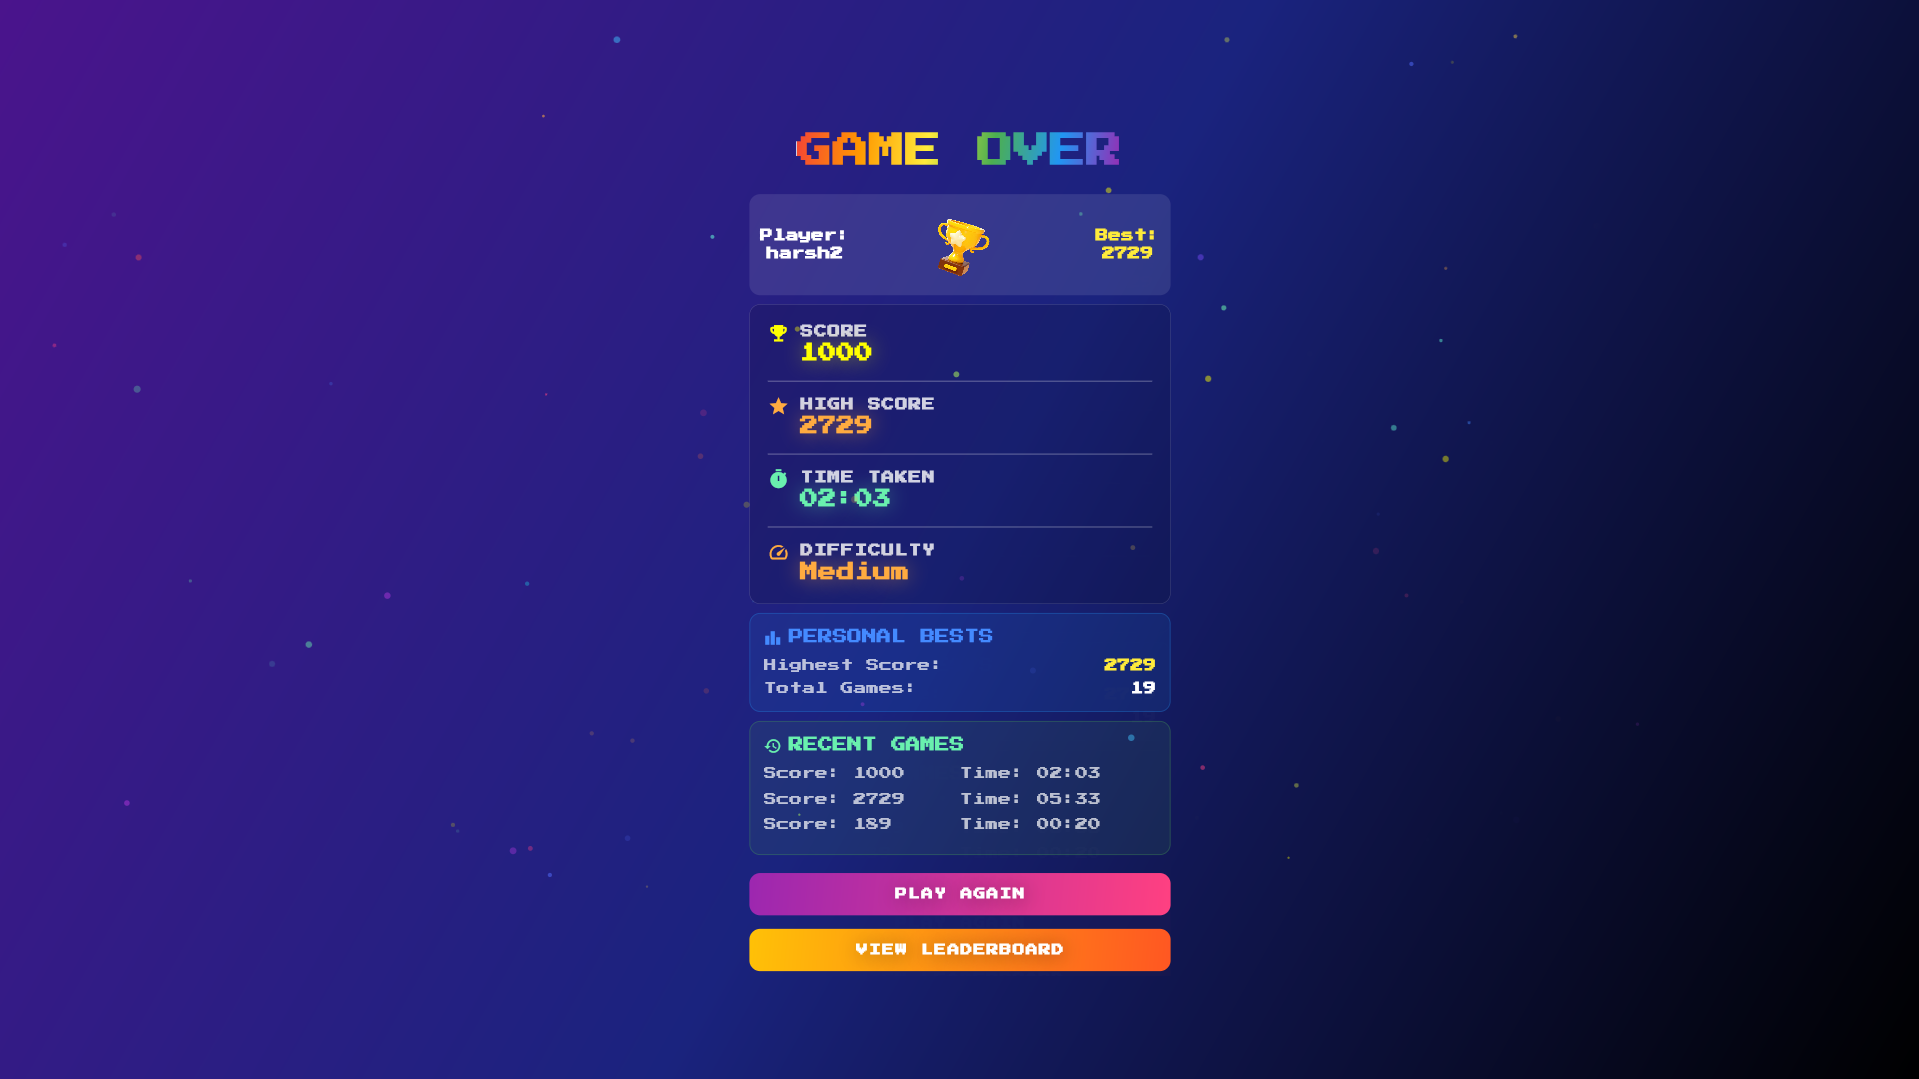
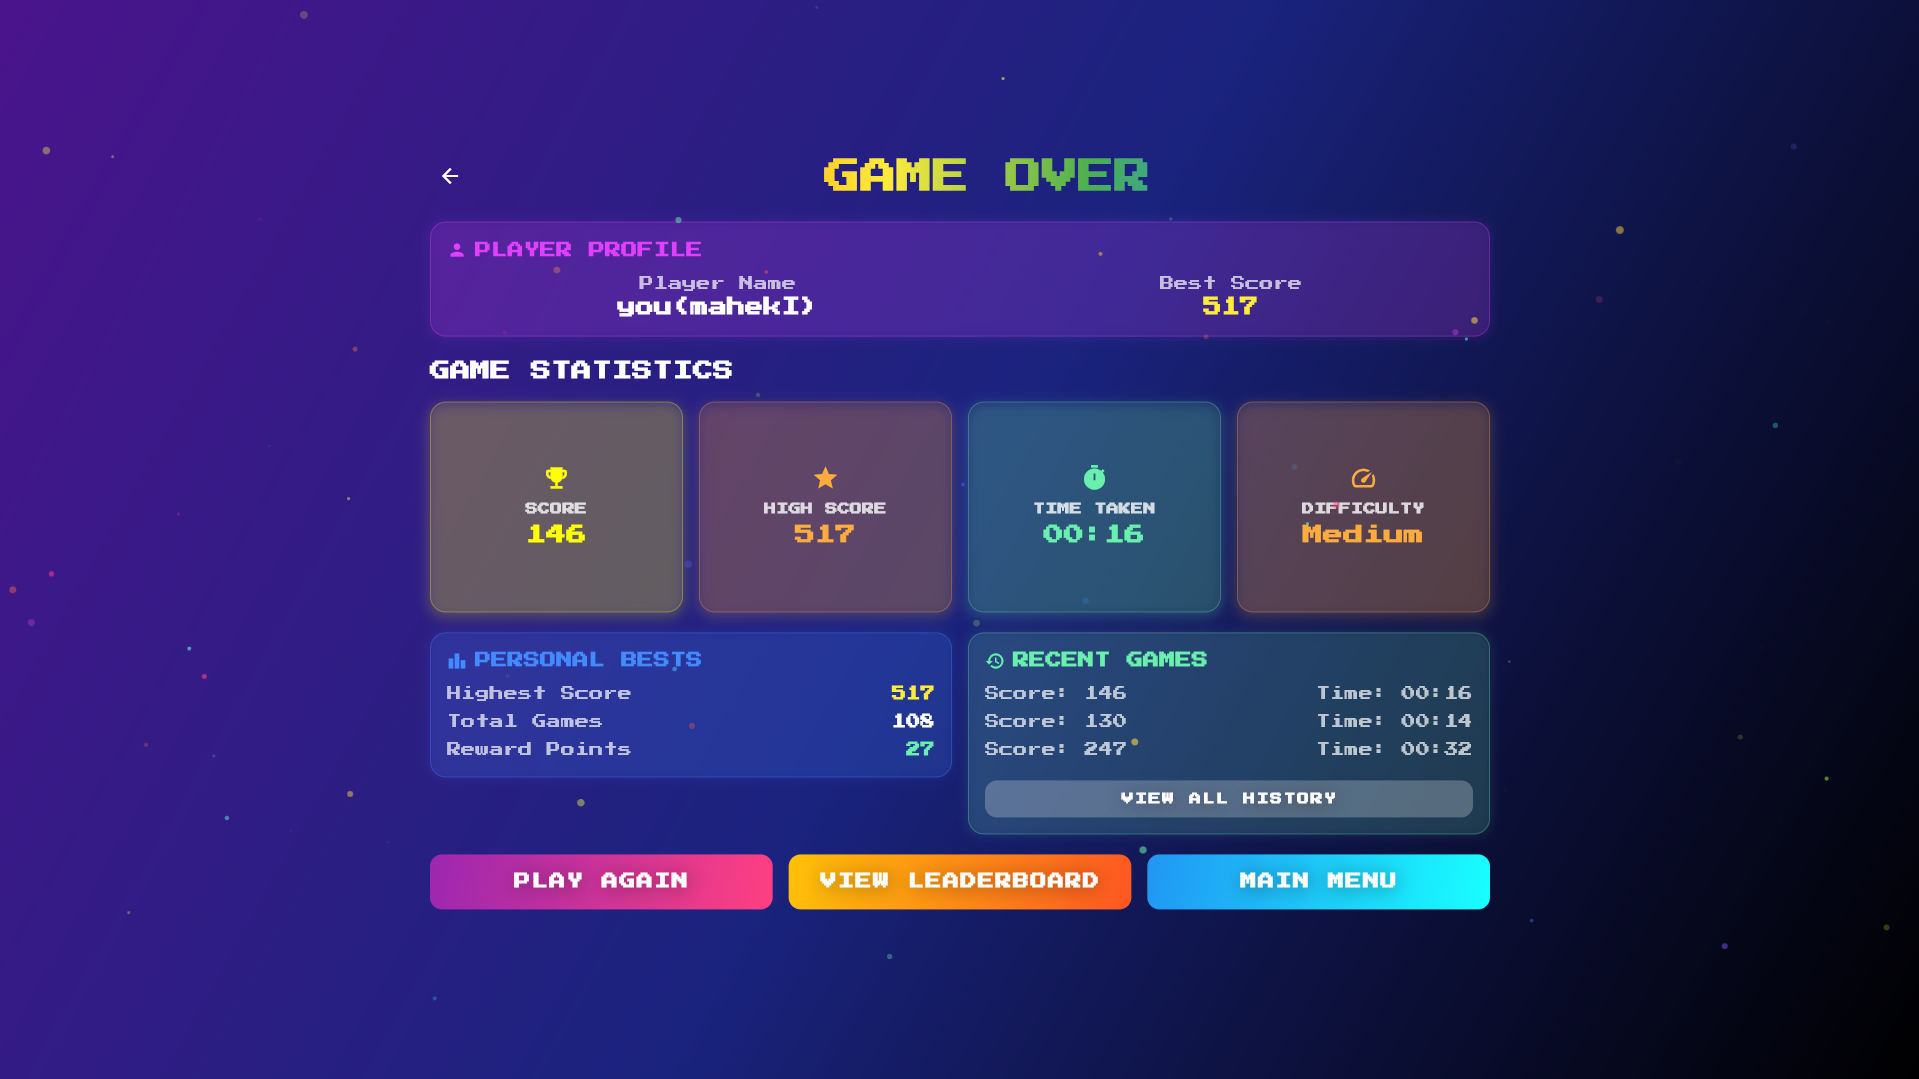
change game over screen demo image

Changed region(s): [[0.2152, 0.1223, 0.7994, 0.9175]]

diff --git a/lib/screens/game_over.dart b/lib/screens/game_over.dart
@@ -3060,7 +3060,7 @@ class _GameOverScreenState extends State<GameOverScreen>
                                                     ),
                                                   ),
                                                   Text(
-                                                    '${_userData!['userName']}',
+                                                    'you(${_userData!['userName']})',
                                                     style: const TextStyle(
                                                       color: Colors.white,
                                                       fontSize: 18,
